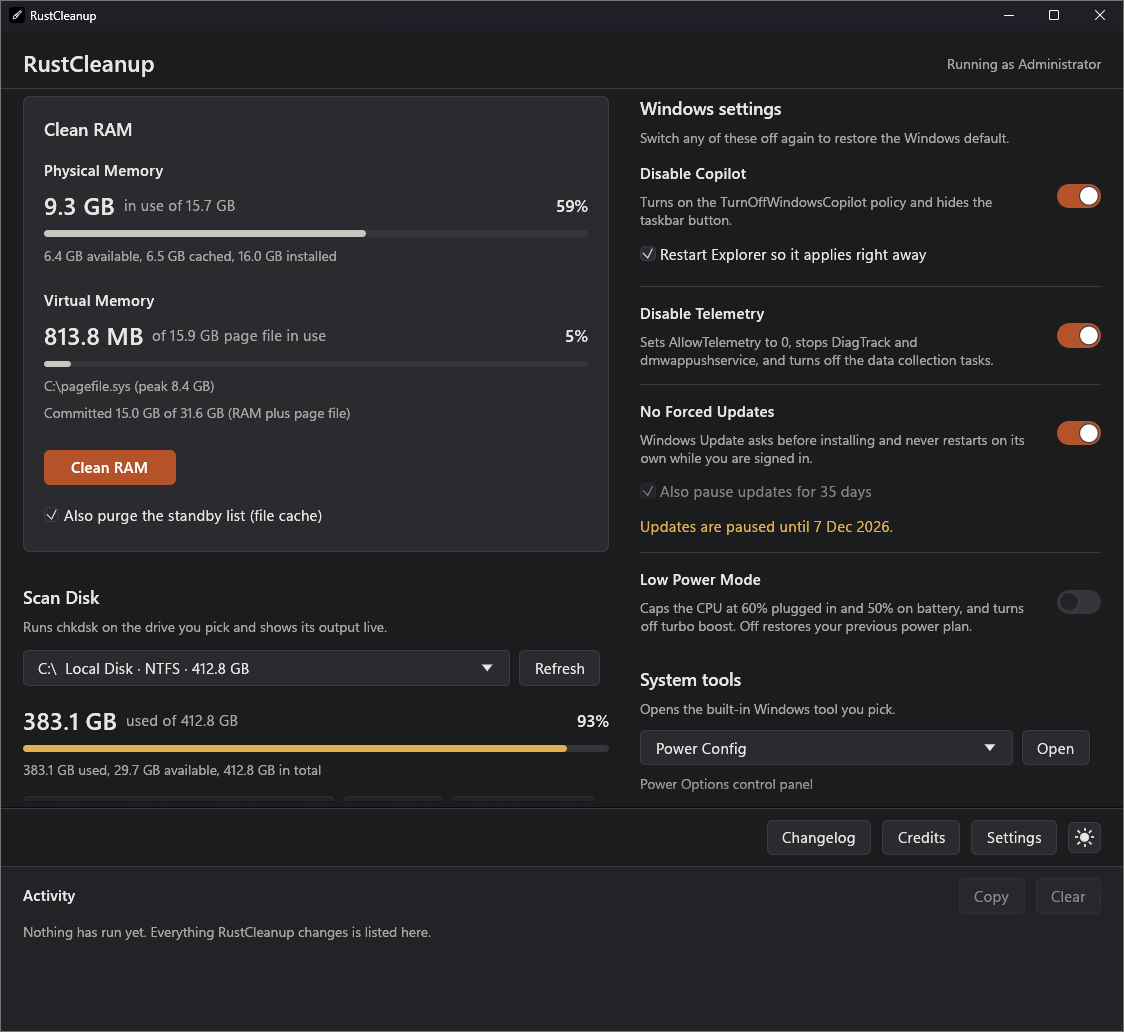
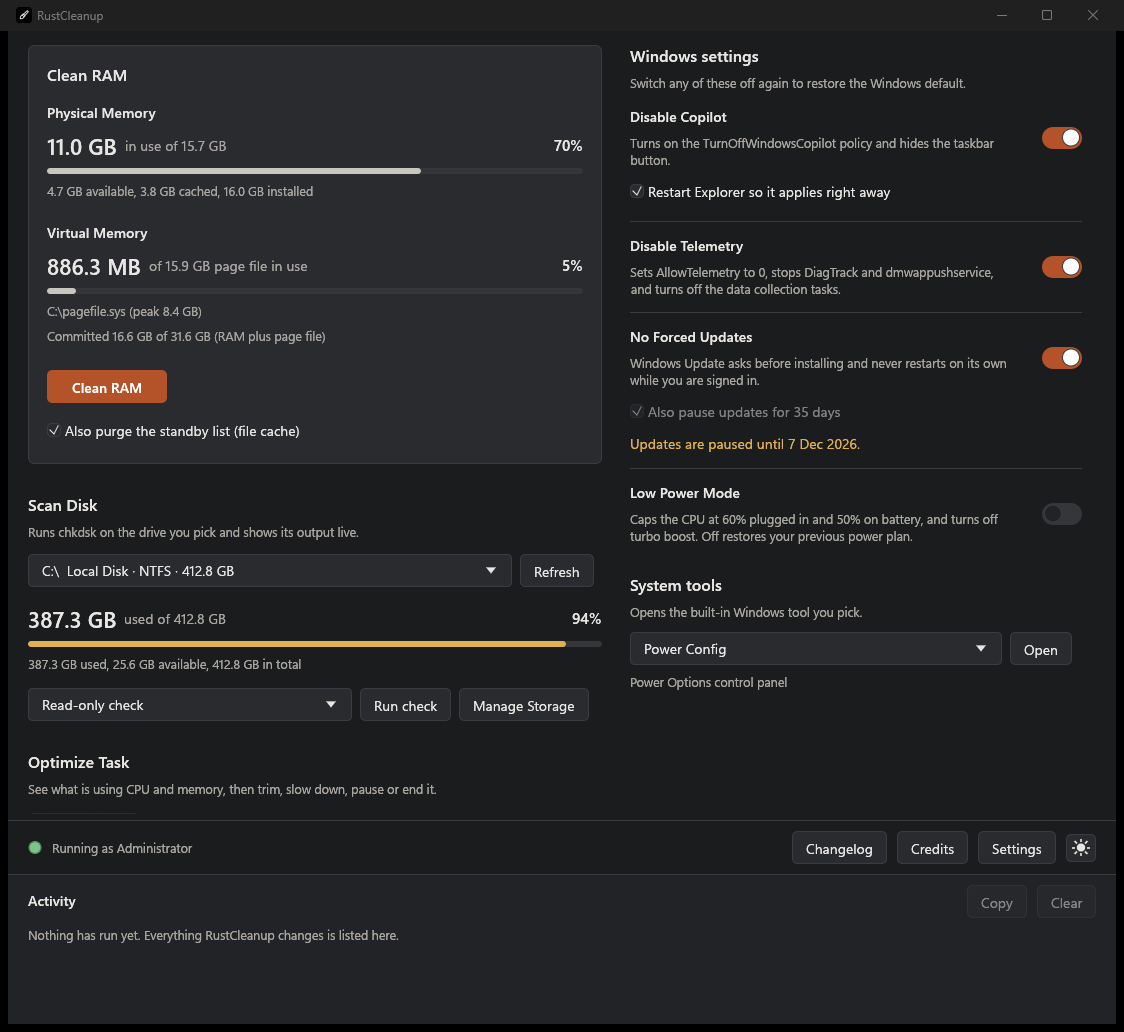
3.0.2: Drop the duplicate title bar, admin status dot in the bottom bar
The in-window "RustCleanup" heading repeated the window title, so it is
gone. The admin status moves to the left end of the bottom bar as a
macOS-style dot: green with admin rights, yellow while the check runs,
red with a warning sign under standard rights, each with a tooltip.
The README screenshot shows the new layout.

diff --git a/src/app.rs b/src/app.rs
@@ -28,7 +28,7 @@ use crate::ui::disk::DiskPanel;
 use crate::ui::memory::MemoryPanel;
 use crate::ui::settings::SettingsWindow;
 use crate::ui::tasks::TaskList;
-use crate::ui::theme::{self, Theme, semibold};
+use crate::ui::theme::{self, Theme};
 use crate::ui::tweaks::TweaksPanel;
 use crate::ui::update::UpdateWindow;
 use crate::ui::{self as views, widgets};
@@ -85,7 +85,9 @@ impl PendingNotification {
 pub struct RustCleanupApp {
     rx: Receiver<AppEvent>,
     jobs: Jobs,
-    elevated: bool,
+    /// `None` until the background check below answers.
+    elevated: Option<bool>,
+    elevation: Option<Receiver<bool>>,
     theme: Theme,
 
     activity: ActivityLog,
@@ -125,7 +127,13 @@ impl RustCleanupApp {
         let (tx, rx) = mpsc::channel();
         let log = Logger::new(tx, ctx.clone());
         let jobs = Jobs::new(log.clone());
-        let elevated = is_elevated();
+        // Checked on a worker so the footer can show "checking" first.
+        let (elevated_tx, elevation) = mpsc::channel();
+        let repaint = ctx.clone();
+        std::thread::spawn(move || {
+            let _ = elevated_tx.send(is_elevated());
+            repaint.request_repaint();
+        });
 
         // The tray forwards menu picks into the same event channel.
         let tray_log = log.clone();
@@ -145,9 +153,6 @@ impl RustCleanupApp {
             ctx.send_viewport_cmd(ViewportCommand::Visible(true));
         }
 
-        if !elevated {
-            log.warn(tr("RustCleanup is not running as Administrator, so most changes will fail. Restart it and choose Yes on the UAC prompt."));
-        }
         TweaksPanel::detect(&jobs);
         // Read before on_launch deletes the old exe an update leaves behind.
         let updated = settings::note_version(
@@ -163,7 +168,8 @@ impl RustCleanupApp {
 
         Self {
             rx,
-            elevated,
+            elevated: None,
+            elevation: Some(elevation),
             theme: Theme::load(),
             activity: ActivityLog::new(),
             memory: MemoryPanel::new(),
@@ -259,6 +265,15 @@ impl RustCleanupApp {
 
     /// Drains worker and tray messages. Runs even while the window is hidden.
     fn pump_events(&mut self, ctx: &egui::Context) {
+        if let Some(rx) = &self.elevation
+            && let Ok(elevated) = rx.try_recv()
+        {
+            self.elevation = None;
+            self.elevated = Some(elevated);
+            if !elevated {
+                self.jobs.log.warn(tr("RustCleanup is not running as Administrator, so most changes will fail. Restart it and choose Yes on the UAC prompt."));
+            }
+        }
         while let Ok(event) = self.rx.try_recv() {
             match event {
                 AppEvent::Log(entry) => {
@@ -333,33 +348,10 @@ impl RustCleanupApp {
         }
     }
 
-    fn header(&mut self, ui: &mut egui::Ui) {
-        let pal = self.theme.palette;
-        ui.horizontal(|ui| {
-            ui.label(RichText::new("RustCleanup").family(semibold()).size(21.0));
-            ui.with_layout(Layout::right_to_left(Align::Center), |ui| {
-                if self.elevated {
-                    widgets::note(ui, &pal, tr("Running as Administrator"));
-                } else {
-                    ui.label(RichText::new(tr("Not running as Administrator")).color(pal.error));
-                }
-                if self.jobs.any_visible_busy() {
-                    ui.add(egui::Spinner::new().size(14.0).color(pal.muted));
-                }
-            });
-        });
-        if !self.elevated {
-            ui.label(
-                RichText::new(tr("Changes need admin rights. Close RustCleanup, open it again and choose Yes on the UAC prompt."))
-                    .color(pal.error),
-            );
-        }
-    }
-
     fn footer(&mut self, ui: &mut egui::Ui) {
         let pal = self.theme.palette;
         // Right to left: the theme button sits at the far right, then
-        // Settings, Credits and Changelog.
+        // Settings, Credits and Changelog. The admin status fills the left.
         ui.with_layout(Layout::right_to_left(Align::Center), |ui| {
             if widgets::theme_button(ui, &pal, self.theme.light).clicked() {
                 self.theme.toggle();
@@ -382,20 +374,46 @@ impl RustCleanupApp {
             {
                 self.changelog.open(ui.ctx());
             }
+            ui.with_layout(Layout::left_to_right(Align::Center), |ui| {
+                self.admin_status(ui);
+            });
         });
+    }
+
+    /// A macOS-style dot: green with admin rights, yellow while checking,
+    /// red (plus a warning sign) without them.
+    fn admin_status(&mut self, ui: &mut egui::Ui) {
+        let pal = self.theme.palette;
+        match self.elevated {
+            Some(true) => {
+                widgets::status_dot(ui, pal.ok, tr("Admin Privileges"));
+                widgets::note(ui, &pal, tr("Running as Administrator"));
+            }
+            None => {
+                widgets::status_dot(ui, pal.warn, tr("Checking for Admin..."));
+                widgets::note(ui, &pal, tr("Checking for Admin..."));
+            }
+            Some(false) => {
+                widgets::status_dot(ui, pal.error, tr("Standard Privileges"));
+                widgets::warning_sign(
+                    ui,
+                    pal.error,
+                    tr("Not all features will work without admin rights. Close RustCleanup, open it again and choose Yes on the UAC prompt."),
+                );
+                ui.label(
+                    RichText::new(tr("Not running as Administrator"))
+                        .size(12.5)
+                        .color(pal.error),
+                );
+            }
+        }
+        if self.jobs.any_visible_busy() {
+            ui.add(egui::Spinner::new().size(14.0).color(pal.muted));
+        }
     }
 
     fn main_panels(&mut self, ui: &mut egui::Ui) {
         let pal = self.theme.palette;
-        egui::Panel::top("header")
-            .frame(egui::Frame::new().fill(pal.bg).inner_margin(Margin {
-                left: 20,
-                right: 20,
-                top: 14,
-                bottom: 8,
-            }))
-            .show(ui, |ui| self.header(ui));
-
         egui::Panel::bottom("activity")
             .resizable(true)
             .default_size(150.0)
@@ -420,7 +438,7 @@ impl RustCleanupApp {
             .frame(egui::Frame::new().fill(pal.bg).inner_margin(Margin {
                 left: 20,
                 right: 20,
-                top: 6,
+                top: 14,
                 bottom: 6,
             }))
             .show(ui, |ui| {

diff --git a/src/ui/widgets.rs b/src/ui/widgets.rs
@@ -379,6 +379,46 @@ pub fn menu_button(ui: &mut Ui, pal: &Palette, open: bool, label: &str) -> Respo
         .on_hover_text(label)
 }
 
+/// A small filled status dot with a slightly darker rim, like the window
+/// buttons on macOS. `label` is its tooltip and accessible name.
+pub fn status_dot(ui: &mut Ui, color: Color32, label: &str) -> Response {
+    let (rect, response) = ui.allocate_exact_size(egui::vec2(14.0, 14.0), Sense::hover());
+    response.widget_info(|| WidgetInfo::labeled(Role::Image, true, label));
+    if ui.is_rect_visible(rect) {
+        let rim = blend(color, Color32::BLACK, 0.25);
+        ui.painter()
+            .circle(rect.center(), 5.5, color, Stroke::new(1.0, rim));
+    }
+    response.on_hover_text(label)
+}
+
+/// A warning triangle with an exclamation mark. `label` is its tooltip.
+pub fn warning_sign(ui: &mut Ui, color: Color32, label: &str) -> Response {
+    let (rect, response) = ui.allocate_exact_size(egui::vec2(16.0, 14.0), Sense::hover());
+    response.widget_info(|| WidgetInfo::labeled(Role::Image, true, label));
+    if ui.is_rect_visible(rect) {
+        let c = rect.center();
+        let points = vec![
+            c + egui::vec2(0.0, -6.5),
+            c + egui::vec2(7.0, 5.5),
+            c + egui::vec2(-7.0, 5.5),
+        ];
+        ui.painter().add(egui::epaint::PathShape::convex_polygon(
+            points,
+            color,
+            Stroke::NONE,
+        ));
+        let ink = Color32::WHITE;
+        ui.painter().line_segment(
+            [c + egui::vec2(0.0, -2.5), c + egui::vec2(0.0, 1.5)],
+            Stroke::new(1.6, ink),
+        );
+        ui.painter()
+            .circle_filled(c + egui::vec2(0.0, 3.6), 0.95, ink);
+    }
+    response.on_hover_text(label)
+}
+
 /// A hyperlink that opens through Explorer so the browser does not inherit
 /// RustCleanup's admin rights.
 pub fn link(ui: &mut Ui, log: &Logger, text: &str, url: &str) {

diff --git a/CHANGELOG.md b/CHANGELOG.md
@@ -5,10 +5,13 @@ The format follows [Keep a Changelog](https://keepachangelog.com/en/1.1.0/) and 
 
 ## [3.0.2] - 2026-11-02
 
-A small fix-up: Restart reopens what it closes, scroll bars no longer cover buttons, and the Changelog holds every version.
+A small fix-up: Restart reopens what it closes, scroll bars no longer cover buttons, the Changelog holds every version, and the main window drops its second title.
 
 ### Added
 - **The whole changelog in one place.** The Changelog window now lists the notes of every version, newest first, each with its title and release date. Scroll down to read further back, or open the menu button next to the title to see every version and jump straight to one. The "What's New in RustCleanup V3?" video stays with the 3.0.1 notes.
+
+### Changed
+- **One title, more room.** The "RustCleanup" bar at the top of the main window is gone, since the window's own title already says it. The admin status moved to the left end of the bar with Changelog, Credits, Settings and Theme, as a coloured dot: green means RustCleanup has admin rights, yellow means it is still checking, and red means it is running with standard rights, with a warning sign because not every feature works without admin. Hover over the dot to see which it is.
 
 ### Fixed
 - **Restart brings the program back.** Restarting Windows Explorer from the task list ended it and left the taskbar and desktop empty, because current Windows 11 builds no longer start it again by themselves. RustCleanup now starts it again with your normal rights, and the same goes for any program restarted while Explorer is not running.

diff --git a/README.md b/README.md
@@ -8,7 +8,7 @@
 
 ## Features
 
-![RustCleanup 3.0.0 main window in dark mode, showing Physical and Virtual Memory, Scan Disk with storage figures and Manage Storage, the Windows settings switches and System tools](docs/screenshot.png)
+![RustCleanup 3.0.2 main window in dark mode, showing Physical and Virtual Memory, Scan Disk with storage figures and Manage Storage, the Windows settings switches, System tools, and a green admin status dot in the bottom bar](docs/screenshot.png)
 
 | Feature | What it does | How to undo |
 |---|---|---|
